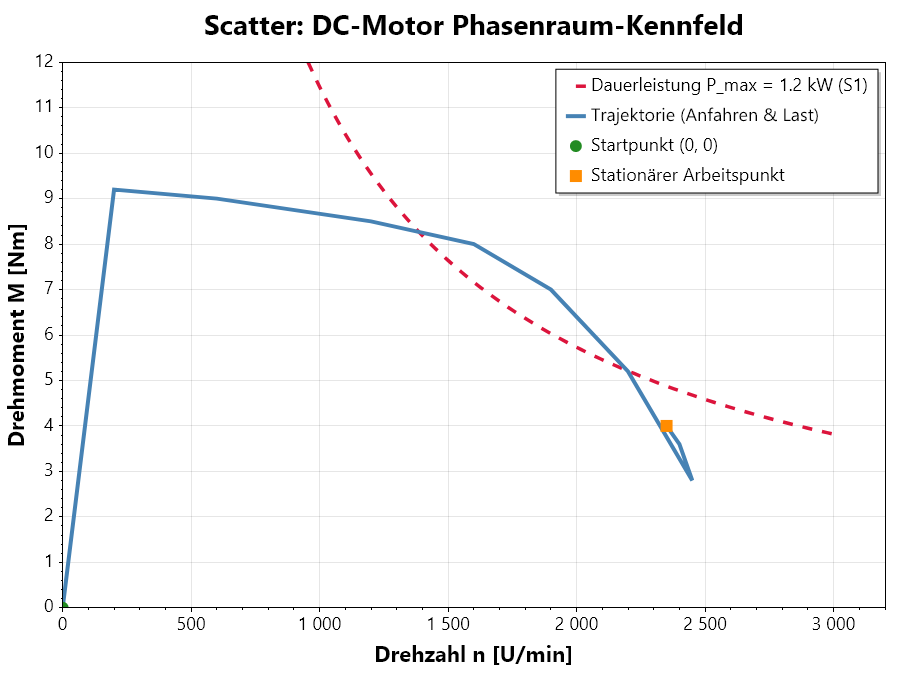
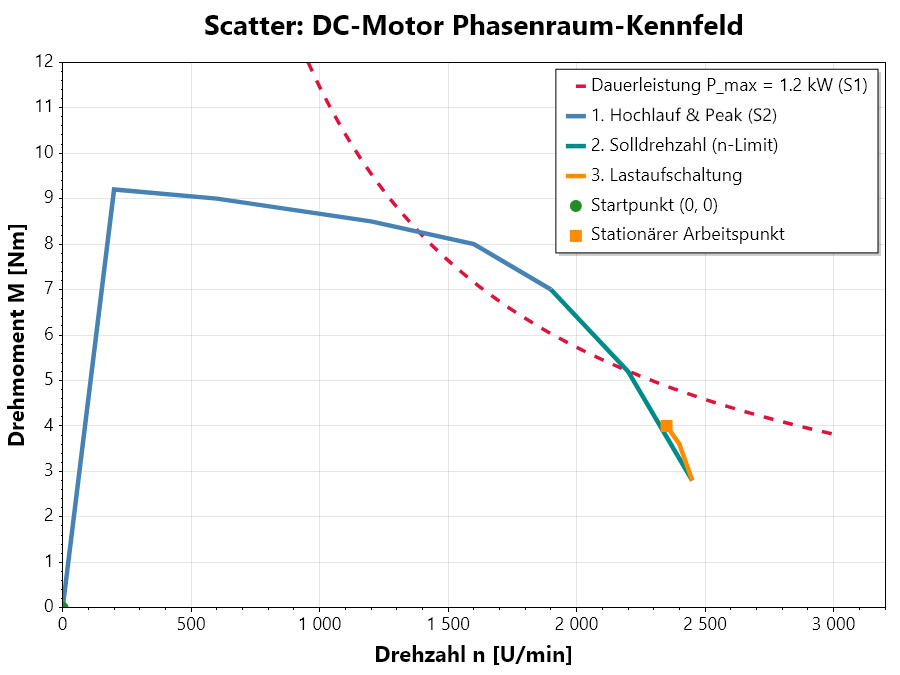
Didaktik-Vertiefung: 3-Phasen-Farben im Motorkennfeld, reine Beschleunigungsdarstellung (ax, ay) und dedizierte Folie zu Drift vs. Traktionsabriss

diff --git a/Werkzeuge/GrafikGenerator/Chapter04Graphics.cs b/Werkzeuge/GrafikGenerator/Chapter04Graphics.cs
@@ -71,13 +71,30 @@ namespace GrafikGenerator
             hyp.LinePattern = LinePattern.Dashed;
             hyp.LegendText = "Dauerleistung P_max = 1.2 kW (S1)";
 
-            // Trajektorie Betriebspunkt: Dynamischer Hochlauf mit kurzzeitigem Peak (S2) und Einlauf in S1-Arbeitspunkt
-            double[] nTraj = { 0, 200, 600, 1200, 1600, 1900, 2200, 2450, 2400, 2350 };
-            double[] mTraj = { 0, 9.2, 9.0,  8.5,  8.0,  7.0,  5.2,  2.8,  3.6,  4.0 };
-            var traj = plot.Add.ScatterLine(nTraj, mTraj);
-            traj.Color = ScottPlot.Colors.SteelBlue;
-            traj.LineWidth = 4.0f;
-            traj.LegendText = "Trajektorie (Anfahren & Last)";
+            // Trajektorie in 3 farbkodierten Betriebsphasen:
+            // Phase 1: Hochlauf & kurzzeitiger Peak (S2 Überlast)
+            double[] nPhase1 = { 0, 200, 600, 1200, 1600, 1900 };
+            double[] mPhase1 = { 0, 9.2, 9.0,  8.5,  8.0,  7.0 };
+            var traj1 = plot.Add.ScatterLine(nPhase1, mPhase1);
+            traj1.Color = ScottPlot.Colors.SteelBlue;
+            traj1.LineWidth = 4.5f;
+            traj1.LegendText = "1. Hochlauf & Peak (S2)";
+
+            // Phase 2: Annäherung an Solldrehzahl (Moment fällt ab)
+            double[] nPhase2 = { 1900, 2200, 2450 };
+            double[] mPhase2 = { 7.0,  5.2,  2.8 };
+            var traj2 = plot.Add.ScatterLine(nPhase2, mPhase2);
+            traj2.Color = ScottPlot.Colors.DarkCyan;
+            traj2.LineWidth = 4.5f;
+            traj2.LegendText = "2. Solldrehzahl (n-Limit)";
+
+            // Phase 3: Lastaufschaltung & Einlaufen in stationären S1-Arbeitspunkt
+            double[] nPhase3 = { 2450, 2400, 2350 };
+            double[] mPhase3 = { 2.8,  3.6,  4.0 };
+            var traj3 = plot.Add.ScatterLine(nPhase3, mPhase3);
+            traj3.Color = ScottPlot.Colors.DarkOrange;
+            traj3.LineWidth = 4.5f;
+            traj3.LegendText = "3. Lastaufschaltung";
 
             var startMarker = plot.Add.Marker(0, 0, MarkerShape.FilledCircle, 12, ScottPlot.Colors.ForestGreen);
             startMarker.LegendText = "Startpunkt (0, 0)";

diff --git a/Folien/04_Visualisierung_2D_Diagramme/Folien.md b/Folien/04_Visualisierung_2D_Diagramme/Folien.md
@@ -393,11 +393,11 @@ Warum darf die Leistungsgrenze im Kennfeld kurzzeitig überschritten werden?
 <div class="columns">
 <div class="two">
 
-Trajektorie $(n, M)$ in drei Phasen:
+Trajektorie $(n, M)$ in 3 farbkodierten Phasen:
 
-- **1. Hochlauf:** Maximalmoment ($9{,}2\,\text{Nm}$) beschleunigt die Trägheit; Peak ($1{,}4\,\text{kW}$) übersteigt $P_{\max} = 1{,}2\,\text{kW}$ kurzzeitig (zulässig).
-- **2. Solldrehzahl:** Bei $2.450\,\text{U/min}$ fällt das Beschleunigungsmoment ab ($M \to 2{,}8\,\text{Nm}$).
-- **3. Lastaufschaltung:** Lastmoment ($4{,}0\,\text{Nm}$) greift an; Einlaufen in stationären S1-Arbeitspunkt ($2.350\,\text{U/min}$).
+- **1. Hochlauf (Blau):** Maximalmoment ($9{,}2\,\text{Nm}$) beschleunigt die Trägheit; Peak ($1{,}4\,\text{kW}$) übersteigt $P_{\max} = 1{,}2\,\text{kW}$ kurzzeitig (zulässig).
+- **2. Solldrehzahl (Türkis):** Bei $2.450\,\text{U/min}$ fällt das Beschleunigungsmoment ab ($M \to 2{,}8\,\text{Nm}$).
+- **3. Lastaufschaltung (Orange):** Lastmoment ($4{,}0\,\text{Nm}$) greift an; Einlaufen in stationären S1-Arbeitspunkt ($2.350\,\text{U/min}$).
 
 </div>
 <div class="three">
@@ -416,15 +416,45 @@ Trajektorie $(n, M)$ in drei Phasen:
 
 Reifen koppeln Längs- und Querdynamik (Übung 4, Track B):
 
-- **Massen-Normierung ($a = F/m$):** Reifenkräfte $F$ normiert auf Fahrzeugmasse $m$:
+- **Längsbeschleunigung $a_x$ (Fahrzeugachse):**
+  - $+a_x$: Antreiben (Gas) | $-a_x$: Verzögern (Bremse).
+- **Querbeschleunigung $a_y$ (Kurvenachse):**
+  - Entsteht bei Kurvenfahrt durch Reifenseitenkräfte.
+- **Kamm'scher Kreis:** Der Reifen überträgt in der Fahrbahnebene maximal die Grenzhaftung $\mu \cdot g$:
   $$a_{\text{res}} = \sqrt{a_x^2 + a_y^2} \le \mu \cdot g$$
-- **Haftungsgesetz (Kamm):** Längs- ($a_x$) und Querführung ($a_y$) teilen sich das Haftungsbudget $\mu \cdot g$. Vollbremsung mit $a_x = \mu g$ führt zu $a_y = 0$ (keine Lenkwirkung).
-- **Grenzüberschreitung ($a_{\text{res}} > \mu \cdot g$):** Abreißen der Haftung in Gleitreibung; Räder blockieren / Fahrzeug rutscht unkontrolliert.
+- **Zielkonflikt:** Vollbremsung ($a_x = \mu g$) erzwingt $a_y = 0$ (keine Lenkwirkung mehr möglich!).
 
 </div>
 <div class="one">
 
 ![](./Diagramme/Mini_Kammscher_Kreis.svg)
+
+</div>
+</div>
+
+---
+
+### Fahrdynamik: Drift vs. Traktionsabriss
+
+<div class="columns">
+<div class="two">
+
+Fahrdynamische Effekte an und über der Haftgrenze $\mu \cdot g$:
+
+- **1. Linearer Grip ($a_{\text{res}} \le 0{,}8 \cdot \mu g$):**
+  - Reifen haftet ohne Schlupf. Auto folgt präzise der Lenkspur.
+- **2. Kontrollierter Drift ($0{,}8 \cdot \mu g < a_{\text{res}} \le 1{,}0 \cdot \mu g$):**
+  - **Reifenschlupf:** Profil beginnt mikroskopisch zu gleiten.
+  - Heck wird leicht ausgestellt; feinfühliges Gegenlenken balanciert das Fahrzeug im optimalen Renntempo.
+- **3. Traktionsabriss ($a_{\text{res}} > \mu \cdot g$):**
+  - Haftung bricht schlagartig in **Gleitreibung** ein.
+  - **Untersteuern:** Front rutscht $\to$ Auto schiebt geradeaus.
+  - **Übersteuern:** Heck verliert Grip $\to$ Fahrzeug dreht sich (Spin).
+
+</div>
+<div class="one">
+
+![](./Diagramme/Mini_Fahrdynamik_Drift.svg)
 
 </div>
 </div>
@@ -438,10 +468,13 @@ Reifen koppeln Längs- und Querdynamik (Übung 4, Track B):
 
 Echtzeitanalyse von $a_x$ und $a_y$ im Gaming-HUD:
 
-- **Warum 80 %-Schwelle ($0{,}8 \cdot \mu g$)?** Bis 80 % reagiert der Reifen linear (präzise Lenkung); darüber setzt Reifenschlupf ein (Renn-Limit).
-- **Grün ($a_{\text{res}} \le 0{,}8 \cdot \mu g$):** Linearer Normalbereich (volle Reserven).
-- **Orange ($0{,}8 \cdot \mu g < a_{\text{res}} \le 1{,}0 \cdot \mu g$):** Optimaler Renn-Grip / Drift.
-- **Rot ($a_{\text{res}} > \mu g$):** Traktionsabriss (Gleitreibung, Spin).
+- **Warum eine 80 %-Schwelle ($0{,}8 \cdot \mu g$)?**
+  - Bis 80 % der Haftgrenze verhält sich der Reifen linear.
+  - Die 80 %-Linie dient im Leitstand als **Vorwarnschwelle** vor dem nichtlinearen Schlupfbereich.
+- **Die 3 Grip-Zonen im Leitstand:**
+  - **Grün ($a_{\text{res}} \le 0{,}8 \cdot \mu g$):** Linearer Normalbereich (Sicherheit).
+  - **Orange ($0{,}8 \cdot \mu g < a_{\text{res}} \le 1{,}0 \cdot \mu g$):** Limit / Drift-Bereich.
+  - **Rot ($a_{\text{res}} > \mu g$):** Traktionsabriss (Gleitreibung, Spin-Gefahr).
 
 </div>
 <div class="one">

diff --git a/Export/README.md b/Export/README.md
@@ -3,7 +3,7 @@
 **Lehrveranstaltung:** Systemsimulation / Digitaler Zwilling  
 **Studiengang:** B.Sc. Automatisierungstechnik, 5. Semester  
 **Institution:** Fachhochschule Oberösterreich – Campus Wels  
-**Zuletzt generiert:** 2026-11-03 12:22:31 UTC  
+**Zuletzt generiert:** 2026-11-03 12:30:53 UTC  
 
 Dieses Verzeichnis enthält alle druckreifen, vollständigen PDF-Unterlagen für den Upload auf Moodle.
 
@@ -15,7 +15,7 @@ Dieses Verzeichnis enthält alle druckreifen, vollständigen PDF-Unterlagen für
 | **01** | Einführung | [`01_Einfuehrung_Folien.pdf`](Folien/01_Einfuehrung_Folien.pdf) | 3.8 MB | `Folien/01_Einführung/Folien.pdf` |
 | **02** | Visualisierung 2D Pixel | [`02_Visualisierung_2D_Pixel_Folien.pdf`](Folien/02_Visualisierung_2D_Pixel_Folien.pdf) | 8.56 MB | `Folien/02_Visualisierung_2D_Pixel/Folien.pdf` |
 | **03** | Visualisierung 2D Vektor | [`03_Visualisierung_2D_Vektor_Folien.pdf`](Folien/03_Visualisierung_2D_Vektor_Folien.pdf) | 4.41 MB | `Folien/03_Visualisierung_2D_Vektor/Folien.pdf` |
-| **04** | Visualisierung 2D Diagramme | [`04_Visualisierung_2D_Diagramme_Folien.pdf`](Folien/04_Visualisierung_2D_Diagramme_Folien.pdf) | 5.12 MB | `Folien/04_Visualisierung_2D_Diagramme/Folien.pdf` |
+| **04** | Visualisierung 2D Diagramme | [`04_Visualisierung_2D_Diagramme_Folien.pdf`](Folien/04_Visualisierung_2D_Diagramme_Folien.pdf) | 5.14 MB | `Folien/04_Visualisierung_2D_Diagramme/Folien.pdf` |
 | **05** | Visualisierung 3D OpenGL | [`05_Visualisierung_3D_OpenGL_Folien.pdf`](Folien/05_Visualisierung_3D_OpenGL_Folien.pdf) | 3.83 MB | `Folien/05_Visualisierung_3D_OpenGL/Folien.pdf` |
 | **06** | Multithreading | [`06_Multithreading_Folien.pdf`](Folien/06_Multithreading_Folien.pdf) | 1.32 MB | `Folien/06_Multithreading/Folien.pdf` |
 | **07** | Statische Modelle | [`07_Statische_Modelle_Folien.pdf`](Folien/07_Statische_Modelle_Folien.pdf) | 1.18 MB | `Folien/07_Statische_Modelle/Folien.pdf` |
